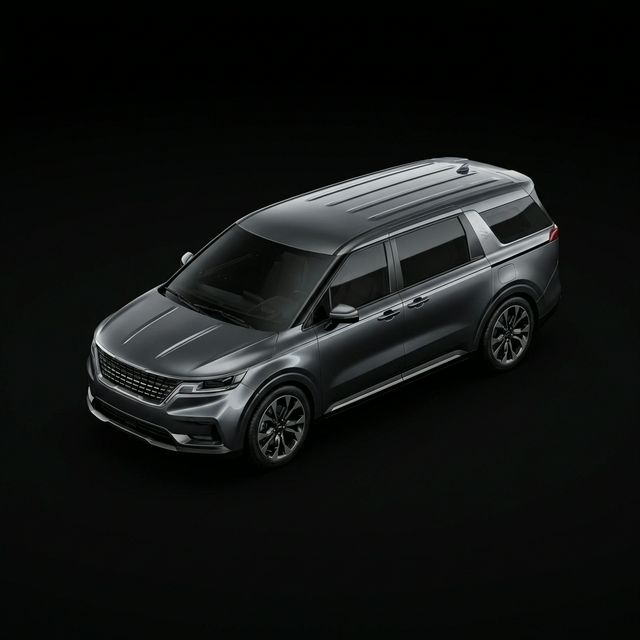
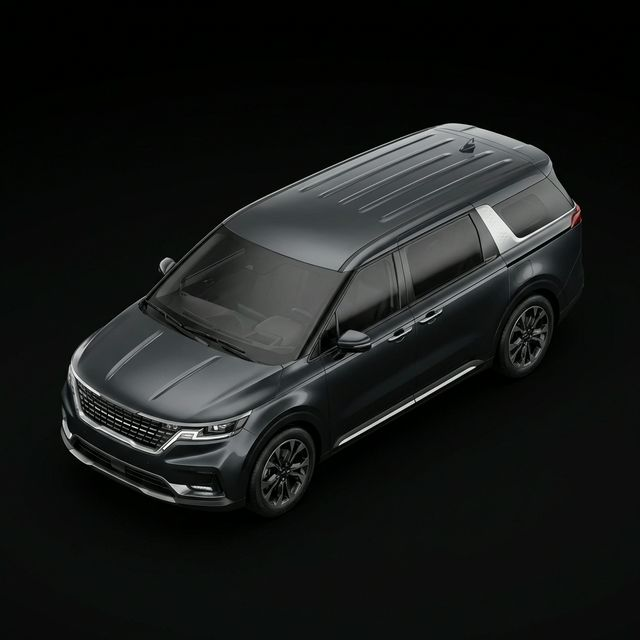
fix(tariffs): adjust image scales for better uniformity and replace minivan image

Changed region(s): [[0.0938, 0.1875, 0.9062, 0.8125]]

diff --git a/src/components/Tariffs.tsx b/src/components/Tariffs.tsx
@@ -79,12 +79,12 @@ export default function Tariffs() {
     const getStyleProps = (id: string) => {
         const props: any = { '--hover-translate': '-10px' };
         switch (id) {
-            case 'econom': props['--base-scale'] = 1.35; props['--hover-scale'] = 1.45; props['--base-translate'] = '-5px'; break;
-            case 'standart': props['--base-scale'] = 1.45; props['--hover-scale'] = 1.55; props['--base-translate'] = '-5px'; break;
-            case 'comfort': props['--base-scale'] = 1.25; props['--hover-scale'] = 1.35; props['--base-translate'] = '-5px'; break;
-            case 'comfortPlus': props['--base-scale'] = 1.35; props['--hover-scale'] = 1.45; props['--base-translate'] = '-5px'; break;
-            case 'business': props['--base-scale'] = 1.15; props['--hover-scale'] = 1.25; props['--base-translate'] = '5px'; break;
-            case 'minivan': props['--base-scale'] = 1.05; props['--hover-scale'] = 1.15; props['--base-translate'] = '10px'; break;
+            case 'econom': props['--base-scale'] = 1.1; props['--hover-scale'] = 1.2; props['--base-translate'] = '5px'; break;
+            case 'standart': props['--base-scale'] = 1.35; props['--hover-scale'] = 1.45; props['--base-translate'] = '-5px'; break;
+            case 'comfort': props['--base-scale'] = 1.45; props['--hover-scale'] = 1.55; props['--base-translate'] = '-5px'; break;
+            case 'comfortPlus': props['--base-scale'] = 1.35; props['--hover-scale'] = 1.45; props['--base-translate'] = '-2px'; break;
+            case 'business': props['--base-scale'] = 1.35; props['--hover-scale'] = 1.45; props['--base-translate'] = '5px'; break;
+            case 'minivan': props['--base-scale'] = 1.2; props['--hover-scale'] = 1.3; props['--base-translate'] = '5px'; break;
             case 'soberDriver': props['--base-scale'] = 1.0; props['--hover-scale'] = 1.1; props['--base-translate'] = '0px'; props['--hover-translate'] = '-5px'; break;
             case 'delivery': props['--base-scale'] = 1.4; props['--hover-scale'] = 1.5; props['--base-translate'] = '-15px'; props['--hover-translate'] = '-20px'; break;
             default: props['--base-scale'] = 1.25; props['--hover-scale'] = 1.35; props['--base-translate'] = '-5px'; break;
